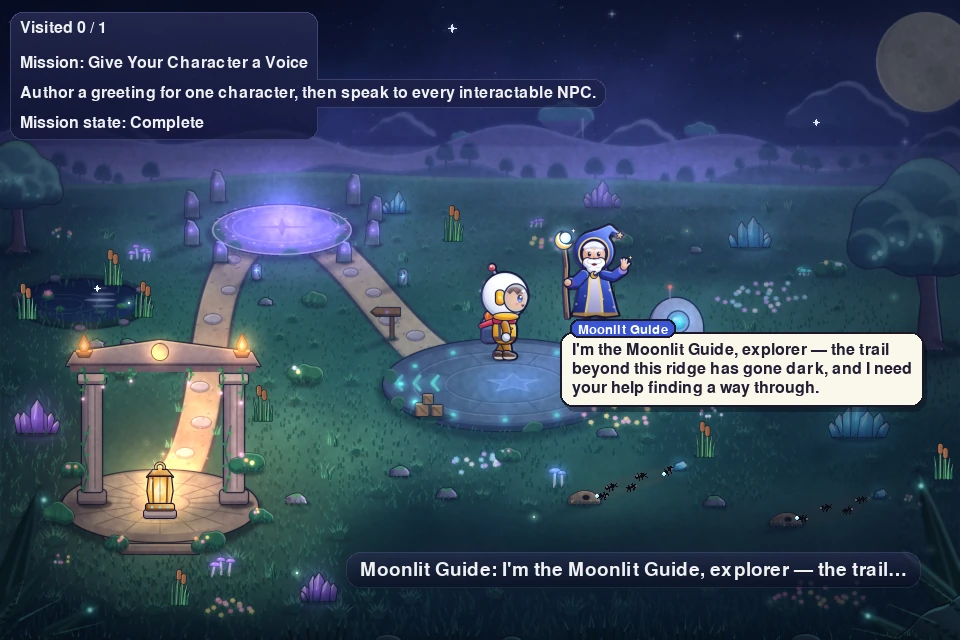
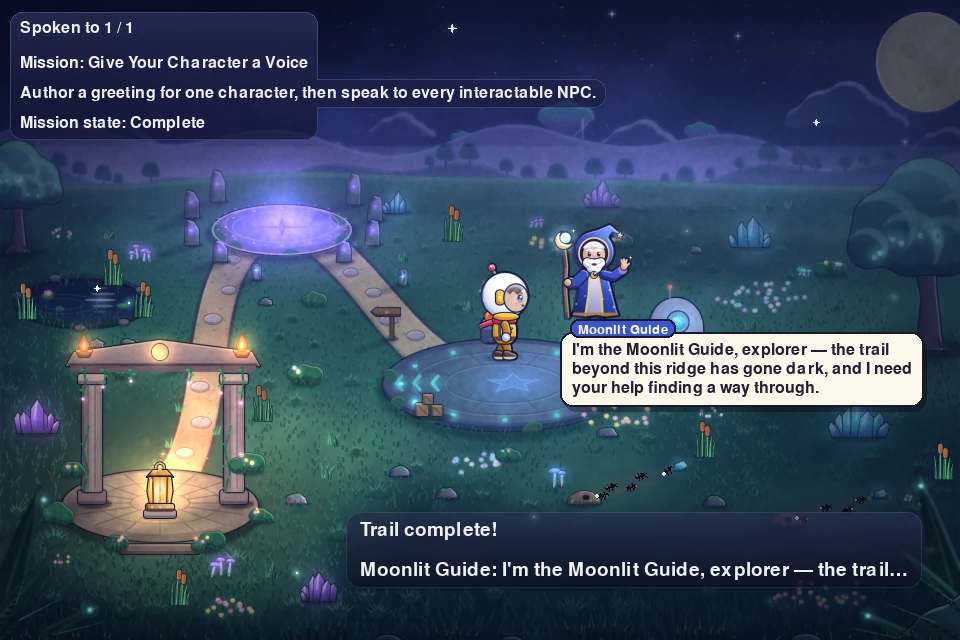
chore: recapture Journey snapshots at the mission-aware HUD pin
python scripts/capture_journey_snapshots.py --all-published

S04_DIALOGUE now shows `Spoken to 1 / 1` and `Trail complete!` from the
Moonlit Guide alone. On the same host, the S01-S03 source frames are
pixel-identical at 3038cf4 and at b875c52. Their WebP bytes differ from the
committed darwin-arm64 capture only because this capture ran on
linux-x86_64.

Claude-Session: https://claude.ai/code/session_014fLqmEZ8jNNrtSBXYnDCgZ

diff --git a/docs/journey-proof/snapshots/README.md b/docs/journey-proof/snapshots/README.md
@@ -52,14 +52,17 @@ What each check verifies:
 - **S04 HERO:** the Moonlit Guide's whole greeting is in the bubble, with the
   `Moonlit Guide` speaker tag. The Guide and the Lantern are drawn in trusted
   art. The Lantern has no waypoint marker, because M04 has no
-  `lantern_waypoint`. There is no S05 content.
+  `lantern_waypoint`. There is no S05 content. Since the `b875c52` pin the
+  HUD reads `Spoken to 1 / 1` and shows `Trail complete!` here, because M04
+  completes from the Guide alone; the Lantern stays unvisited.
 
 ## Provenance
 
 - Base: `main` at `8847e66d3188b9b941aa89d772006b772da15be8` (#114, the S01
   Moon Meadow arrival), merged into this branch.
 - Runtime pin (Course Kit `COURSE_PLATFORM_COMMIT`):
-  `3038cf44dc556a6e878141b8e1fbb6c580095aa4`. The harness refuses to publish
+  `b875c52b76cfd4e1d72be4c77aef595475da79de` (the mission-aware Trail HUD;
+  previously `3038cf44dc556a6e878141b8e1fbb6c580095aa4`). The harness refuses to publish
   unless the working tree's presentation runtime (every `runtime` file below)
   is byte-identical to the runtime at the pin. A test re-reads the pin from
   git to confirm this.
@@ -78,10 +81,15 @@ What each check verifies:
   (the pinned runtime moved), `captureRecipe` (the `untargeted` expectation
   added for S01), and `captureImplementation` (the harness edits). Their
   `packages` parts are unchanged.
-- Presentation fingerprints, per moment: `S01_ARRIVAL` `8c041828b795…`,
-  `S02_COMPASS_PROMPT` `13a4fb2552c8…`, `S02_MOVED_COMPASS` `a270ad98e890…`,
-  `S03_REVEAL` `7b11540a2975…`, `S03_NEAR_CLUE` `e6880f1c9bd7…`, `S04_DIALOGUE`
-  `ee3ae6d34a81…`. The full values are in the manifest.
+- Recapture at the `b875c52` pin (2026-10-10, linux-x86_64): only
+  `S04_DIALOGUE` changed in content (the progress row and the banner). On the
+  same host, the S01–S03 source frames from `3038cf4` and from `b875c52` are
+  pixel-identical. Their bytes differ from the earlier darwin-arm64 capture
+  only because text rasterizes differently on each platform.
+- Presentation fingerprints, per moment: `S01_ARRIVAL` `8ecb418626bb…`,
+  `S02_COMPASS_PROMPT` `0200679e3210…`, `S02_MOVED_COMPASS` `d7a1e29860c5…`,
+  `S03_REVEAL` `4bcc85a1686d…`, `S03_NEAR_CLUE` `58717e931024…`, `S04_DIALOGUE`
+  `76e175d0398d…`. The full values are in the manifest.
 - A fingerprint hashes four parts. The manifest's `fingerprintInputs` lists
   exactly what each one covers:
   - **runtime** (`RUNTIME_GROUPS` in `scripts/journey_snapshots.py`):
@@ -131,8 +139,9 @@ What each check verifies:
 - The Journey snapshots workflow watches every fingerprint input. A test
   matches the workflow's path filters against the real input files, so the
   two lists cannot drift apart.
-- Toolchain at capture: Python 3.13.7, pygame 2.6.1, SDL 2.28.4, SDL_ttf
-  2.20.1, Pillow 12.3.0, libwebp 1.6.0, darwin-arm64.
+- Toolchain at capture: Python 3.13.16, pygame 2.6.1, SDL 2.28.4, Pillow
+  12.3.0, linux-x86_64. The earlier `3038cf4` capture used Python 3.13.7,
+  SDL_ttf 2.20.1, libwebp 1.6.0, darwin-arm64.
 
 ## Encoding and hashes
 
